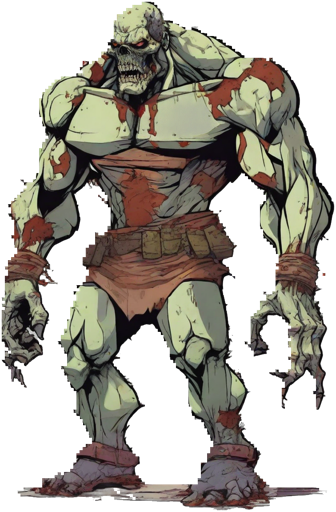
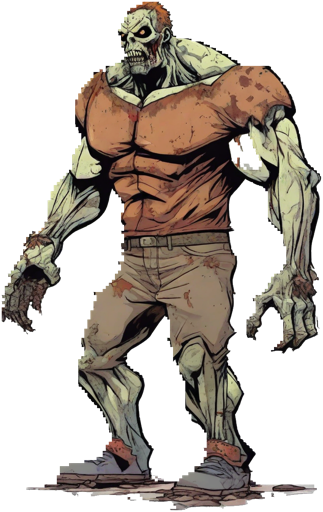
v9.1: nhập ảnh đợt 7 — zombie và trùm vẽ lại, tài xế cầm sẵn rìu/cung/dao/súng lục/giáo; script đợt 8 vẽ lại xe gắn vũ khí
Claude-Session: https://claude.ai/code/session_018wEYzC8jNemASnBrnz6Tty

diff --git a/app/src/main/java/com/khongvinh/carsurvival/Game.kt b/app/src/main/java/com/khongvinh/carsurvival/Game.kt
@@ -24,7 +24,7 @@ import kotlin.random.Random
 class Game(val save: SaveData, val sfx: Sfx, val music: Music) {
     companion object {
         /** Shown on the menu so the installed build is easy to check. */
-        const val VERSION = "9.0"
+        const val VERSION = "9.1"
 
         const val VIRTUAL_HEIGHT = 720f
         const val METER = 30f

diff --git a/tools/assets/tao_anh_colab.py b/tools/assets/tao_anh_colab.py
@@ -133,10 +133,10 @@ HINH = [
     ("nhan_vat", "survivor_shoot", "male survivor, red cap, brown leather jacket, blue jeans, boots, aiming pistol forward", "nguoi", DOC),
     ("nhan_vat", "survivor_hurt", "male survivor, red cap, leather jacket, blue jeans, flinching in pain", True, VUONG),
     ("nhan_vat", "survivor_ride", "one man sitting, red cap, red leather jacket, blue jeans, knees bent, hands forward, no vehicle", "nguoi", DOC),
-    ("nhan_vat", "survivor_unarmed", "male survivor, red cap, red leather jacket, blue jeans, boots, empty hands, fists, standing", "nguoi", DOC),
+    ("nhan_vat", "survivor_unarmed", "male survivor, red cap, red jacket, blue jeans, boots, empty hands, full body head to boots", "nguoi", DOC),
     ("nhan_vat", "survivor_hold_pistol", "male survivor, red cap, red leather jacket, blue jeans, holding small pistol forward", "nguoi", DOC),
-    ("nhan_vat", "survivor_hold_smg", "male survivor, red cap, red leather jacket, blue jeans, holding submachine gun", "nguoi", DOC),
-    ("nhan_vat", "survivor_hold_shotgun", "male survivor, red cap, red leather jacket, blue jeans, holding shotgun", "nguoi", DOC),
+    ("nhan_vat", "survivor_hold_smg", "male survivor, red cap, red jacket, blue jeans, one submachine gun in both hands", "nguoi", DOC),
+    ("nhan_vat", "survivor_hold_shotgun", "male survivor, red cap, red jacket, blue jeans, one long shotgun in both hands", "nguoi", DOC),
     ("nhan_vat", "survivor_hold_bow", "male survivor, red cap, red leather jacket, blue jeans, holding wooden bow", "nguoi", DOC),
     ("nhan_vat", "survivor_hold_spear", "male survivor, red cap, red leather jacket, blue jeans, holding long spear", "nguoi", DOC),
     ("nhan_vat", "survivor_hold_axe", "male survivor, red cap, red leather jacket, blue jeans, holding axe", "nguoi", DOC),
@@ -295,18 +295,16 @@ HINH = [
 ]
 
 # Ảnh hỏng: xóa rồi vẽ lại MỘT lần cho mỗi ĐỢT (đổi DOT để vẽ lại đợt mới).
-# Đợt 7: vẽ lại TOÀN BỘ zombie và trùm (mô tả gọn, nhìn ngang, quay phải).
-DOT = "dot7"
-VE_LAI = {
-    "zombie_walker", "zombie_runner", "zombie_fat", "zombie_spitter", "zombie_armored",
-    "zombie_bat", "zombie_crawler", "zombie_dog", "boss_brute", "boss_tank_zombie", "boss_mutant_worm",
-}
+# Đợt 8: tài xế tay không (đợt 7 bị cắt mất chân), tiểu liên/hoa cải (cầm 2 súng), và VẼ LẠI 50 ảnh
+# xe gắn vũ khí (đợt 7: img2img giữ xe quá chặt nên KHÔNG thấy vũ khí; sedan ra 3 chiếc).
+DOT = "dot8"
+VE_LAI = {"survivor_unarmed", "survivor_hold_smg", "survivor_hold_shotgun"}
 
 # --- Xe gắn sẵn vũ khí (vẽ từ ảnh xe gốc bằng img2img để giữ nguyên dáng xe) ---
 # Mỗi xe x mỗi vũ khí gắn xe trong gara; xe máy có người lái ngồi trên.
 XE_GOC = {
     "car_motorbike": "rusty motorbike, rider in red cap and red jacket",
-    "car_sedan": "rusty orange sedan car",
+    "car_sedan": "one rusty orange sedan car",
     "car_pickup": "armored orange pickup truck",
     "car_bus": "armored orange school bus",
     "car_tank": "olive military tank",
@@ -316,7 +314,8 @@ VU_KHI_XE = {
     "crossbow": "heavy crossbow", "shotgun": "double barrel shotgun", "catapult": "small catapult",
     "flamer": "flamethrower", "rocket": "rocket launcher", "laser": "laser cannon", "minigun": "rotary minigun",
 }
-DO_GIU_XE = 0.55   # img2img strength: thấp = giữ xe gốc nhiều hơn, cao = vẽ vũ khí rõ hơn (0.45-0.65)
+DO_GIU_XE = 0.72   # img2img strength: thấp = giữ xe gốc nhiều hơn, cao = vẽ vũ khí rõ hơn (đợt 7: 0.55 không thấy vũ khí)
+VE_LAI_XE = True   # đợt 8: xóa và vẽ lại toàn bộ 50 ảnh xe gắn vũ khí (đặt False sau khi xong)
 
 
 # 6. HÀM XỬ LÝ ÂM THANH
@@ -507,10 +506,16 @@ def chay():
         for vk, mo_vk in VU_KHI_XE.items():
             ten = f"{xe}_{vk}"
             dich = f"{THU_MUC}/xe_vu_khi/{ten}.png"
+            da_lam = f"{THU_MUC}/_da_ve_lai_{DOT}.txt"
+            xong_roi = set(open(da_lam).read().split()) if os.path.exists(da_lam) else set()
+            if VE_LAI_XE and os.path.exists(dich) and ten not in xong_roi:
+                os.remove(dich)
+                with open(da_lam, "a") as f:
+                    f.write(ten + "\n")
             if os.path.exists(dich):
                 bo_qua += 1; continue
-            gan = "with " + mo_vk + (" in rider hands" if xe == "car_motorbike" and vk != "knife" else
-                                     "" if vk == "knife" else " mounted on the roof")
+            gan = "big " + mo_vk + (" in rider hands" if xe == "car_motorbike" and vk != "knife" else
+                                    " on front bumper" if vk == "knife" else " turret on the roof")
             mo_ta = f"{mo_xe}, {gan}, side view, facing right"
             print(f"🚗 {ten}  ({dem_token(mo_ta + ', ' + PHONG_CACH)} token)")
             try:

diff --git a/tools/assets/nhap_asset.py b/tools/assets/nhap_asset.py
@@ -113,7 +113,8 @@ src = sys.argv[1]
 V2 = "--v2" in sys.argv[2:]
 if V2:
     # bộ 2 (vẽ lại lần 3, prompt dưới 77 token): những ảnh AI vẫn vẽ quay trái
-    FACING_LEFT = {"survivor_idle", "survivor_run", "survivor_shoot", "zombie_walker", "zombie_spitter", "zombie_crawler", "car_sedan", "car_motorbike", "car_tank",
+    # đợt 7: walker, runner, spitter, crawler, giáo quay trái
+    FACING_LEFT = {"survivor_idle", "survivor_run", "survivor_shoot", "zombie_walker", "zombie_runner", "zombie_spitter", "survivor_hold_spear", "zombie_crawler", "car_sedan", "car_motorbike", "car_tank",
                    "wpn_mount_laser", "wpn_mount_shotgun", "wpn_mount_pistol", "wpn_mount_smg",
                    "survivor_ride", "wpn_flamethrower"}
     CUT_LEFT = {}

diff --git a/docs/TIEN_TRINH_DU_AN.md b/docs/TIEN_TRINH_DU_AN.md
@@ -371,7 +371,7 @@ Tài liệu bàn giao để tiếp tục làm việc ở phiên chat mới mà k
 - Lục soát: đạn VÔ HẠN nhưng có BĂNG ĐẠN (SideWeapon.magazine/reload: súng lục 12/1,0 giây, hoa cải 6/1,6, tiểu liên 30/1,5, cung 8/1,1); hết băng → "NẠP ĐẠN..." + thanh nạp. Vũ khí ném (dao, giáo, rìu): thanh LỰC 3 lần ném (THROW_CHARGES); hết lực → nghỉ 0,5 giây rồi đầy lại; còn lực thì hồi 1 nấc mỗi 0,6 giây. Bỏ đạn theo cấp (+30 khi lên cấp). HUD: "12 / 12" hoặc 3 nấc LỰC.
 - Preview camp: ép bão (v8_storm) rồi lốc xoáy (v8_tornado) khi lái.
 
-### v9.0 — Bánh xe khớp ảnh, trùm hung hãn, chuẩn bị ảnh xe gắn vũ khí / zombie mới (hiện tại)
+### v9.0 — Bánh xe khớp ảnh, trùm hung hãn, chuẩn bị ảnh xe gắn vũ khí / zombie mới
 - Bánh xe: Sprites.WHEELS (đo tay trên từng ảnh xe: tâm bánh sau/trước theo tỉ lệ ngang, bán kính theo tỉ lệ cao, có nan hay không — xe tăng không) → ảnh xe được co giãn và đặt sao cho bánh trong ảnh nằm đúng bánh vật lý; nan xoay vẽ đúng trên lốp ảnh (spinWheels theo bán kính ảnh).
 - Xe gắn sẵn vũ khí: nếu có ảnh car_<xe>_<vũ khí> (pistol, knife, smg, crossbow, shotgun, catapult, flamer, rocket, laser, minigun) thì vẽ ảnh đó (xe máy có sẵn người lái), bỏ súng nóc + người lái ghép; chỉ thêm lửa đầu nòng. Chưa có ảnh thì như cũ.
 - Tài xế: thứ tự ảnh ưu tiên survivor_hold_<vũ khí> (AI vẽ cầm sẵn, không ghép) → survivor_unarmed (tay không) + vũ khí ghép → survivor_body. Vũ khí ghép nhỏ lại (0,9 thay 1,35).
@@ -380,6 +380,12 @@ Tài liệu bàn giao để tiếp tục làm việc ở phiên chat mới mà k
 - Script tao_anh_colab.py: DOT "dot7" vẽ lại TOÀN BỘ 8 zombie + 3 trùm (mô tả gọn, nhìn ngang, quay phải; chó/bò/dơi/sâu thêm "side view, facing right"); thêm survivor_unarmed + survivor_hold_<pistol, smg, shotgun, bow, spear, axe, dart>; mục mới A2 "XE GẮN SẴN VŨ KHÍ": 5 xe x 10 vũ khí = 50 ảnh vẽ bằng img2img từ ảnh xe gốc trên Drive (giữ dáng xe, DO_GIU_XE 0,55), lưu xe_vu_khi/car_<xe>_<vk>.png, prompt ≤ 67 token. nhap_asset: nhóm xe_vu_khi dùng FACING_LEFT/ONLY_BIGGEST của xe gốc.
 - Preview camp: lục soát tới phòng trùm 6, chụp v9_boss0..7.
 - Skill mới `/nhap-anh` (.claude/skills/nhap-anh/SKILL.md): quy trình sau khi người dùng render xong — subagent tải ảnh mới theo mốc giờ, duyệt từng ảnh (tools/assets/xem_anh.py ghép bảng xem), sửa bảng FACING_LEFT/TIP_UP/ONLY_BIGGEST/TOP_BAND/CUT_*, nhập --v2, nối tên mới vào code, preview, build, tài liệu, gửi APK + đề xuất đợt vẽ lại.
+
+### v9.1 — Nhập ảnh đợt 7 (zombie mới, tài xế cầm vũ khí) (hiện tại)
+- Đợt 7 (Drive 2026-11-06T23:57 → 11-07T00:05Z, 69 file; thư mục mới xe_vu_khi). Dùng skill /nhap-anh lần đầu.
+- Dùng: 8 zombie + 3 trùm vẽ lại (đồng bộ, nét rõ); survivor_hold_axe/bow/dart/pistol/spear (tài xế cầm sẵn vũ khí — game dùng thẳng, không ghép). FACING_LEFT (--v2) đổi: thêm zombie_walker, zombie_runner, survivor_hold_spear (walker/runner/spitter/crawler/giáo quay trái).
+- Bỏ: survivor_unarmed (bị cắt mất chân, chỉ tới đùi), survivor_hold_smg/shotgun (cầm 2 khẩu súng lục thay vì tiểu liên/hoa cải) → 2 vũ khí này vẫn ghép trên survivor_body; 50 ảnh xe_vu_khi KHÔNG dùng: img2img 0,55 giữ xe gốc quá chặt nên không thấy vũ khí, sedan ra 3 chiếc.
+- Script đợt 8 (tao_anh_colab.py): DOT "dot8" vẽ lại survivor_unarmed ("full body head to boots"), survivor_hold_smg/shotgun ("one … in both hands"); xe gắn vũ khí: DO_GIU_XE 0,72, VE_LAI_XE = True (xóa vẽ lại 50 ảnh một lần), mô tả "big <vũ khí> turret on the roof / on front bumper / in rider hands", sedan "one rusty orange sedan car" (≤ 70 token).
 
 ## 3. Luật chơi cũ trước v7.0 (v6.1, để tham khảo)
 
@@ -562,7 +568,7 @@ cd tools/dev/preview && gradle walk      # tài xế đứng yên khi bão đi q
 
 | Phiên | Tiêu đề | Phạm vi |
 |---|---|---|
-| #3 | Đua Xe Sinh Tồn #3 — v7.3→v9.0: ảnh AI đầy đủ, chân bước thật, ảnh gốc không nén, hiệu ứng bụi/lửa nòng, script asset v2 + khung hình chạy | v7.4: đủ 101 ảnh, ánh xạ zombie/trùm/vũ khí xe/nút tròn/nền; v7.5: Rig cắt hông, sửa ảnh quay trái/dính khói, trùm nhà kho bằng ảnh, tao_asset_colab_v2.py; v7.6: bụi/nhún/lửa nòng, khung hình tên_0..7, tao_khung_hinh_colab.py; v7.7: nhập bộ v2 + khung hình zombie, hiệu ứng ảnh nổ/lửa/tia điện, nền đường theo vùng; v7.8: sửa đi bộ, axit trúng rào, đạn súng máy thật + vỏ đạn, xe đúng hướng, menu, nút nhảy tròn, lục soát vô tận; v7.9: luật trại (lục soát luôn mở, đêm sau khi tới trạm), súng trên nóc xe, quái đường phun axit; v8.0: súng trên xe bằng ảnh AI, script bổ sung; v8.1: nhập 20 ảnh bổ sung, prompt dưới 77 token; v8.2: cài trọn bộ ảnh vẽ lại, gộp 2 script; v8.3: sửa đi lùi/bước chân/font, sàn nhà kho, đạn có hạn, trùm mạnh, xe máy có người lái, bỏ gara cũ; v8.4: ảnh đợt 4 (sàn treo, tiểu liên); v8.5: chân 2 khớp, tài xế ngồi lái AI, dao gắn xe; v8.6: vũ khí phóng + động tác ném, tờ tiền, âm thanh nhặt đồ, zombie đi lết; v8.7: ảnh dao ném; v8.8: nhân vật to hơn (zoom lục soát/thủ trại, camera bám); v8.9: cầm vũ khí, thời tiết ngẫu nhiên thay bão bo, dáng đi theo loài, băng đạn + thanh lực; v9.0: bánh xe khớp ảnh, trùm hung hãn, script xe gắn vũ khí + zombie mới |
+| #3 | Đua Xe Sinh Tồn #3 — v7.3→v9.1: ảnh AI đầy đủ, chân bước thật, ảnh gốc không nén, hiệu ứng bụi/lửa nòng, script asset v2 + khung hình chạy | v7.4: đủ 101 ảnh, ánh xạ zombie/trùm/vũ khí xe/nút tròn/nền; v7.5: Rig cắt hông, sửa ảnh quay trái/dính khói, trùm nhà kho bằng ảnh, tao_asset_colab_v2.py; v7.6: bụi/nhún/lửa nòng, khung hình tên_0..7, tao_khung_hinh_colab.py; v7.7: nhập bộ v2 + khung hình zombie, hiệu ứng ảnh nổ/lửa/tia điện, nền đường theo vùng; v7.8: sửa đi bộ, axit trúng rào, đạn súng máy thật + vỏ đạn, xe đúng hướng, menu, nút nhảy tròn, lục soát vô tận; v7.9: luật trại (lục soát luôn mở, đêm sau khi tới trạm), súng trên nóc xe, quái đường phun axit; v8.0: súng trên xe bằng ảnh AI, script bổ sung; v8.1: nhập 20 ảnh bổ sung, prompt dưới 77 token; v8.2: cài trọn bộ ảnh vẽ lại, gộp 2 script; v8.3: sửa đi lùi/bước chân/font, sàn nhà kho, đạn có hạn, trùm mạnh, xe máy có người lái, bỏ gara cũ; v8.4: ảnh đợt 4 (sàn treo, tiểu liên); v8.5: chân 2 khớp, tài xế ngồi lái AI, dao gắn xe; v8.6: vũ khí phóng + động tác ném, tờ tiền, âm thanh nhặt đồ, zombie đi lết; v8.7: ảnh dao ném; v8.8: nhân vật to hơn (zoom lục soát/thủ trại, camera bám); v8.9: cầm vũ khí, thời tiết ngẫu nhiên thay bão bo, dáng đi theo loài, băng đạn + thanh lực; v9.0: bánh xe khớp ảnh, trùm hung hãn, script xe gắn vũ khí + zombie mới; v9.1: nhập đợt 7 (zombie mới, tài xế cầm vũ khí), skill /nhap-anh |
 | #2 | Đua Xe Sinh Tồn #2 — v5.0→v7.3: lá chắn đi bộ, âm lượng, nhà kho 30 phòng kiểu Earn to Die Rogue, menu bản đồ, nhiệm vụ, LÀM LẠI thành thủ trại (ngày lục soát/lên đường, đêm thủ thành), script tạo asset AI | v5.1→v7.3 + bài thử preview `inside`, `walk`, `rooms`, `camp`; script asset Colab miễn phí; nhập ảnh AI |
 | #1 | Đua Xe Sinh Tồn #1 — v1.0→v5.0: tạo game, kiểu Earn to Die, bão 3 bo, nhạc, trùm cuối, 20 bản đồ, gara 25 xe, 20 kiểu đường, giao diện thép, tiếng động cơ, ngọc đỏ, lô cốt, cốt truyện, cây kỹ năng, tài xế lục soát, xe nổ tài xế chạy tiếp, nhảy, đổi vị trí phím | Từ đầu đến v5.0 + tài liệu bàn giao, công cụ tools/dev, quy tắc CLAUDE.md |
 
